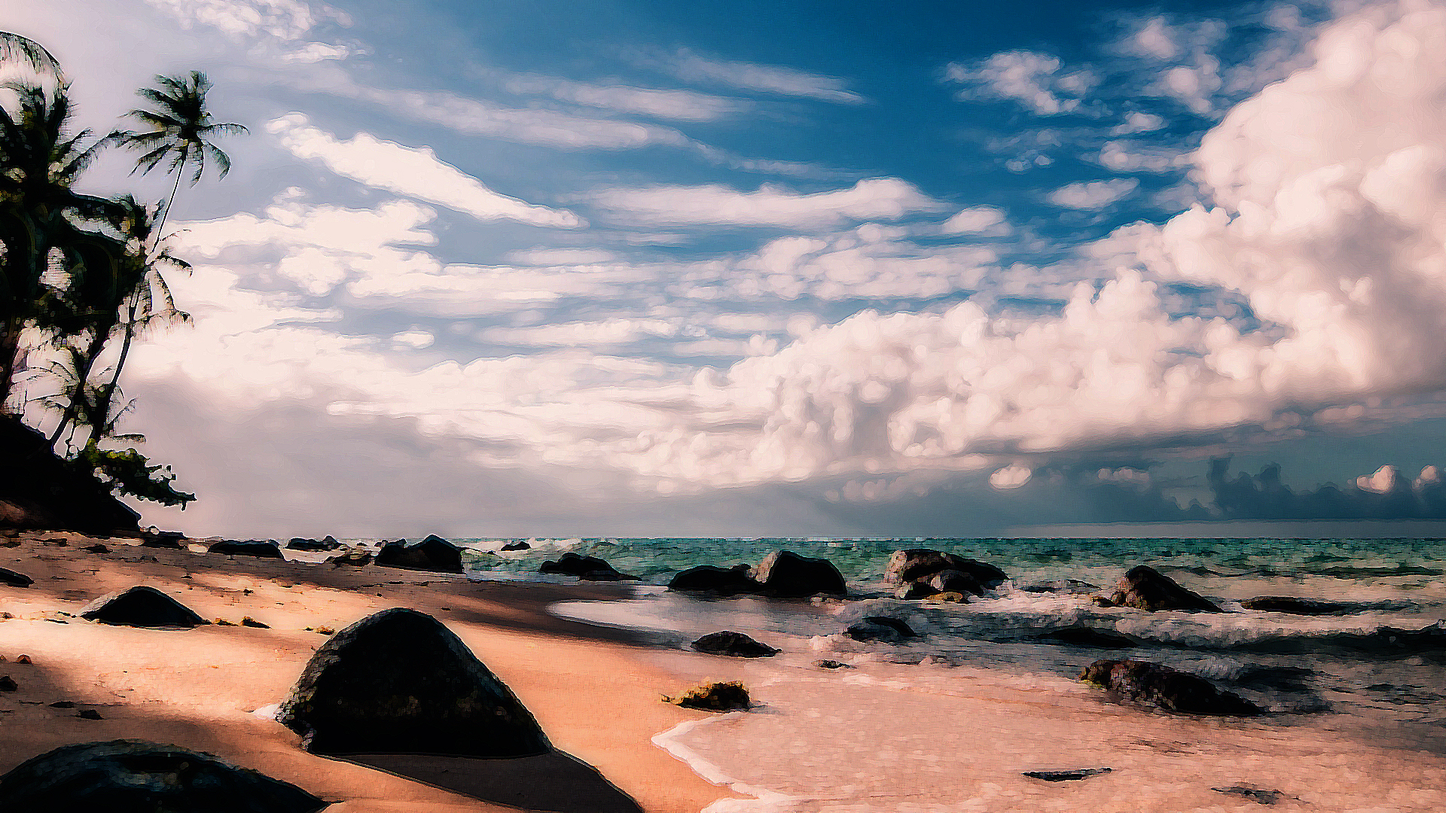
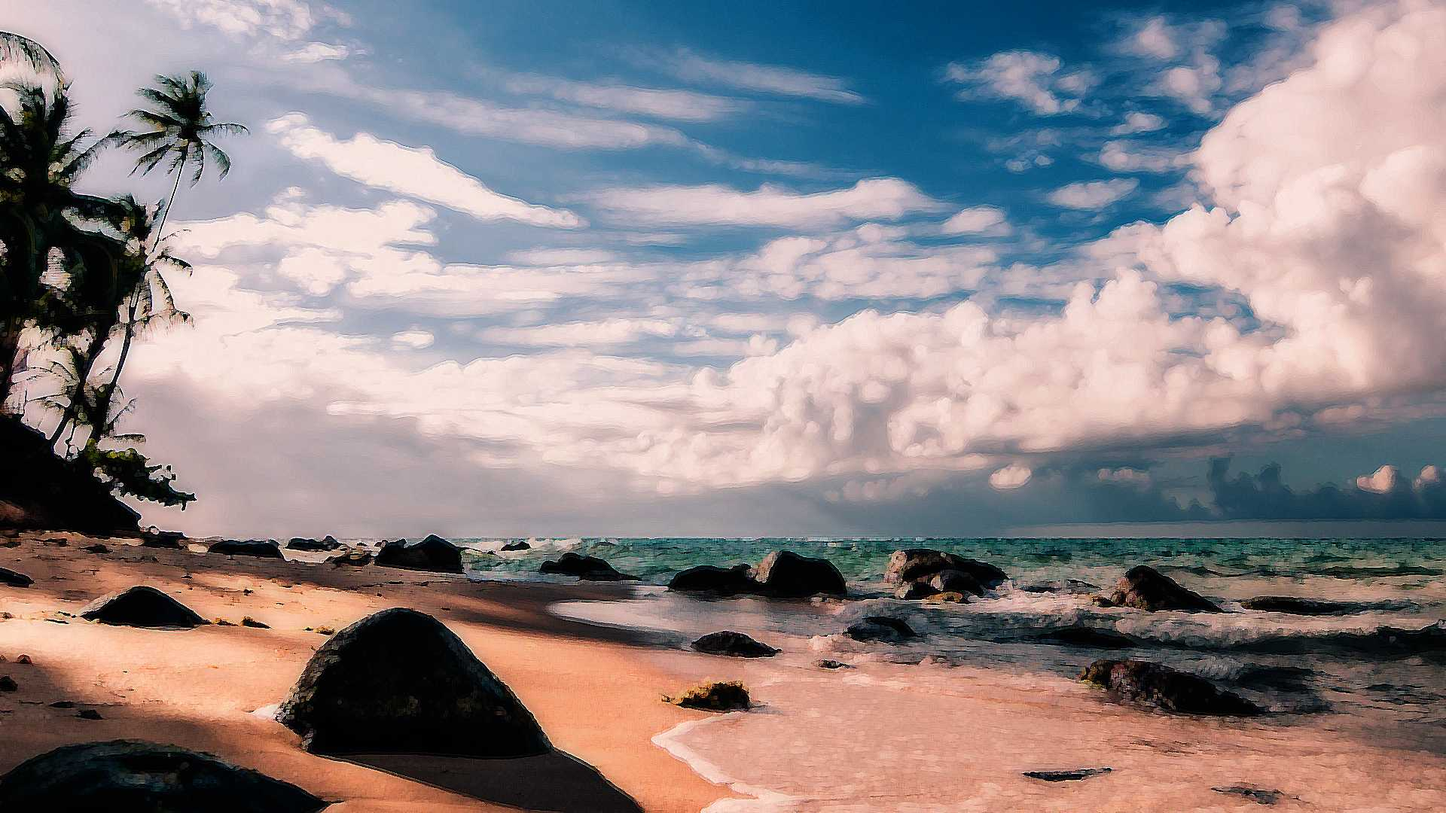
Changed image sizes for web.

diff --git a/index.html b/index.html
@@ -45,7 +45,7 @@
 
     <div id='wrapper-logo'>
         <div id='background-logo'>
-            <img src='images/Background Combined.png'/>
+            <img src='images/Background Combined.jpg'/>
         </div>
         <div id='logo' alt='Lust For Lucre Logo'>
             <img src='images/Title Text.png' />
@@ -59,7 +59,7 @@
     </div>
 
     <div id='pendleton-container'>
-        <img src="images/Dartanias_Pendleton_III.png">
+        <img src="images/Dartanias_Pendleton_III.jpg">
         <div id='pendleton-shadow'></div>
         <div class='blog-entry'>
             <span>
